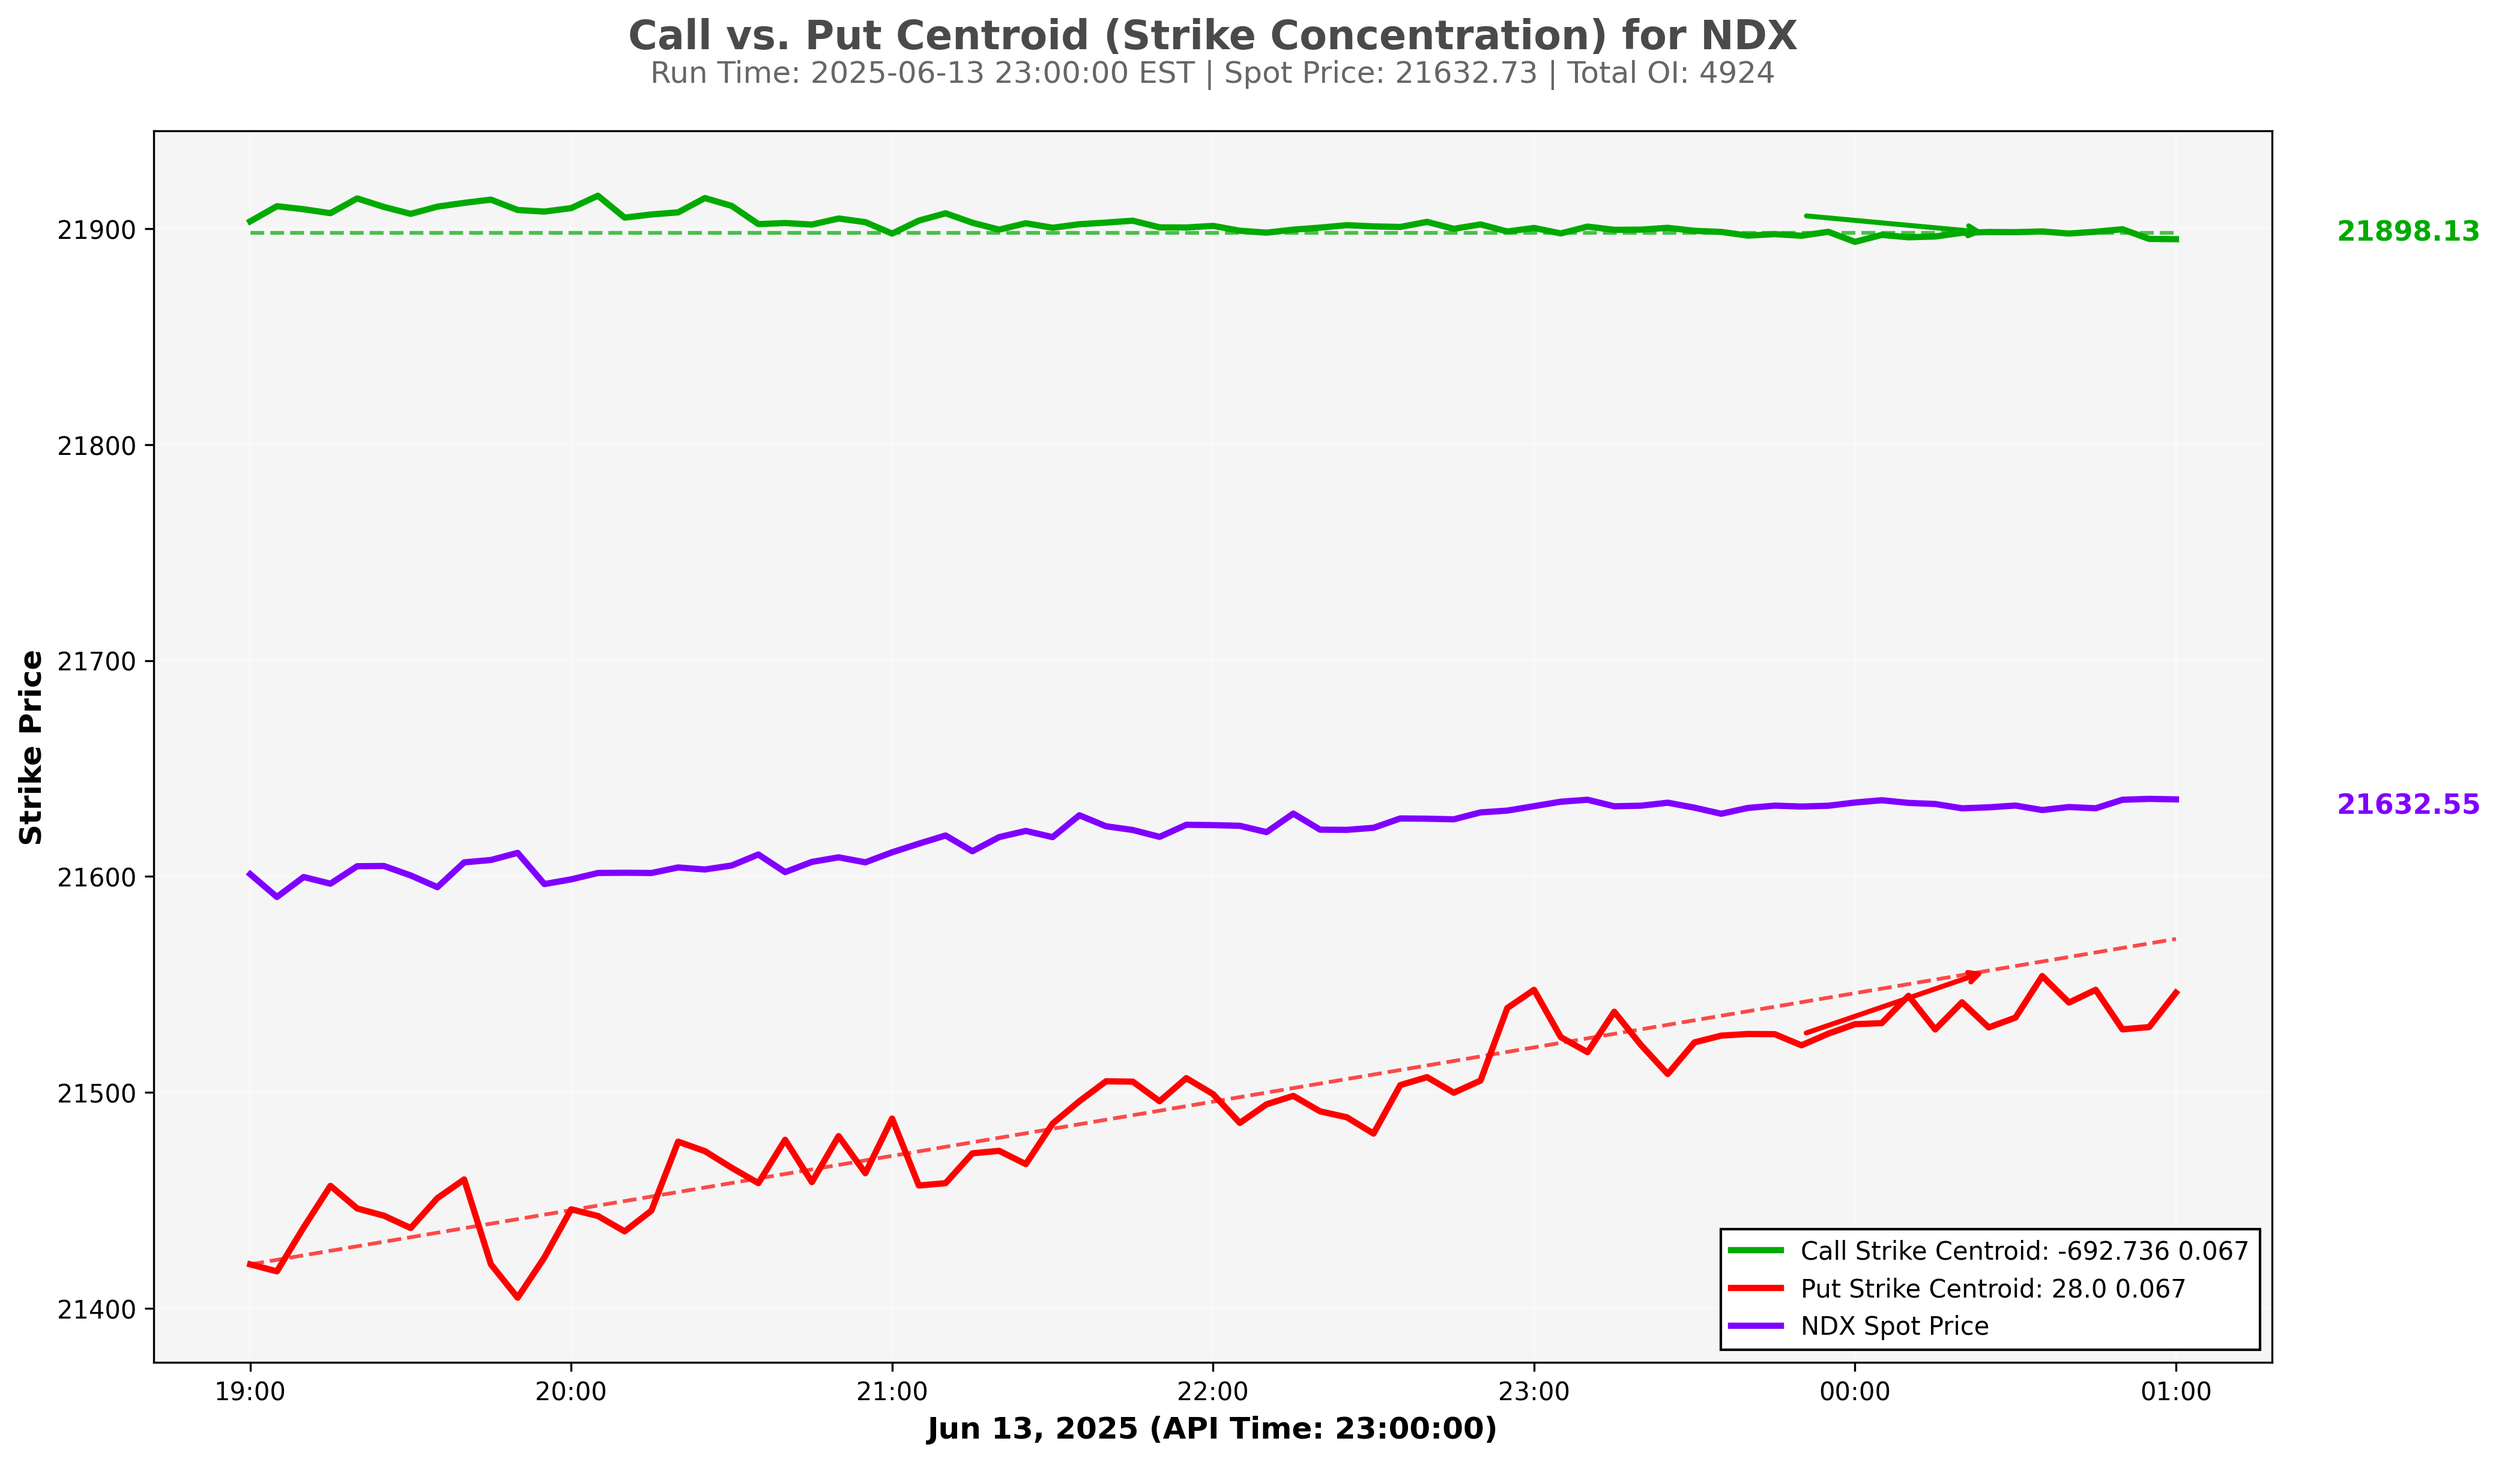
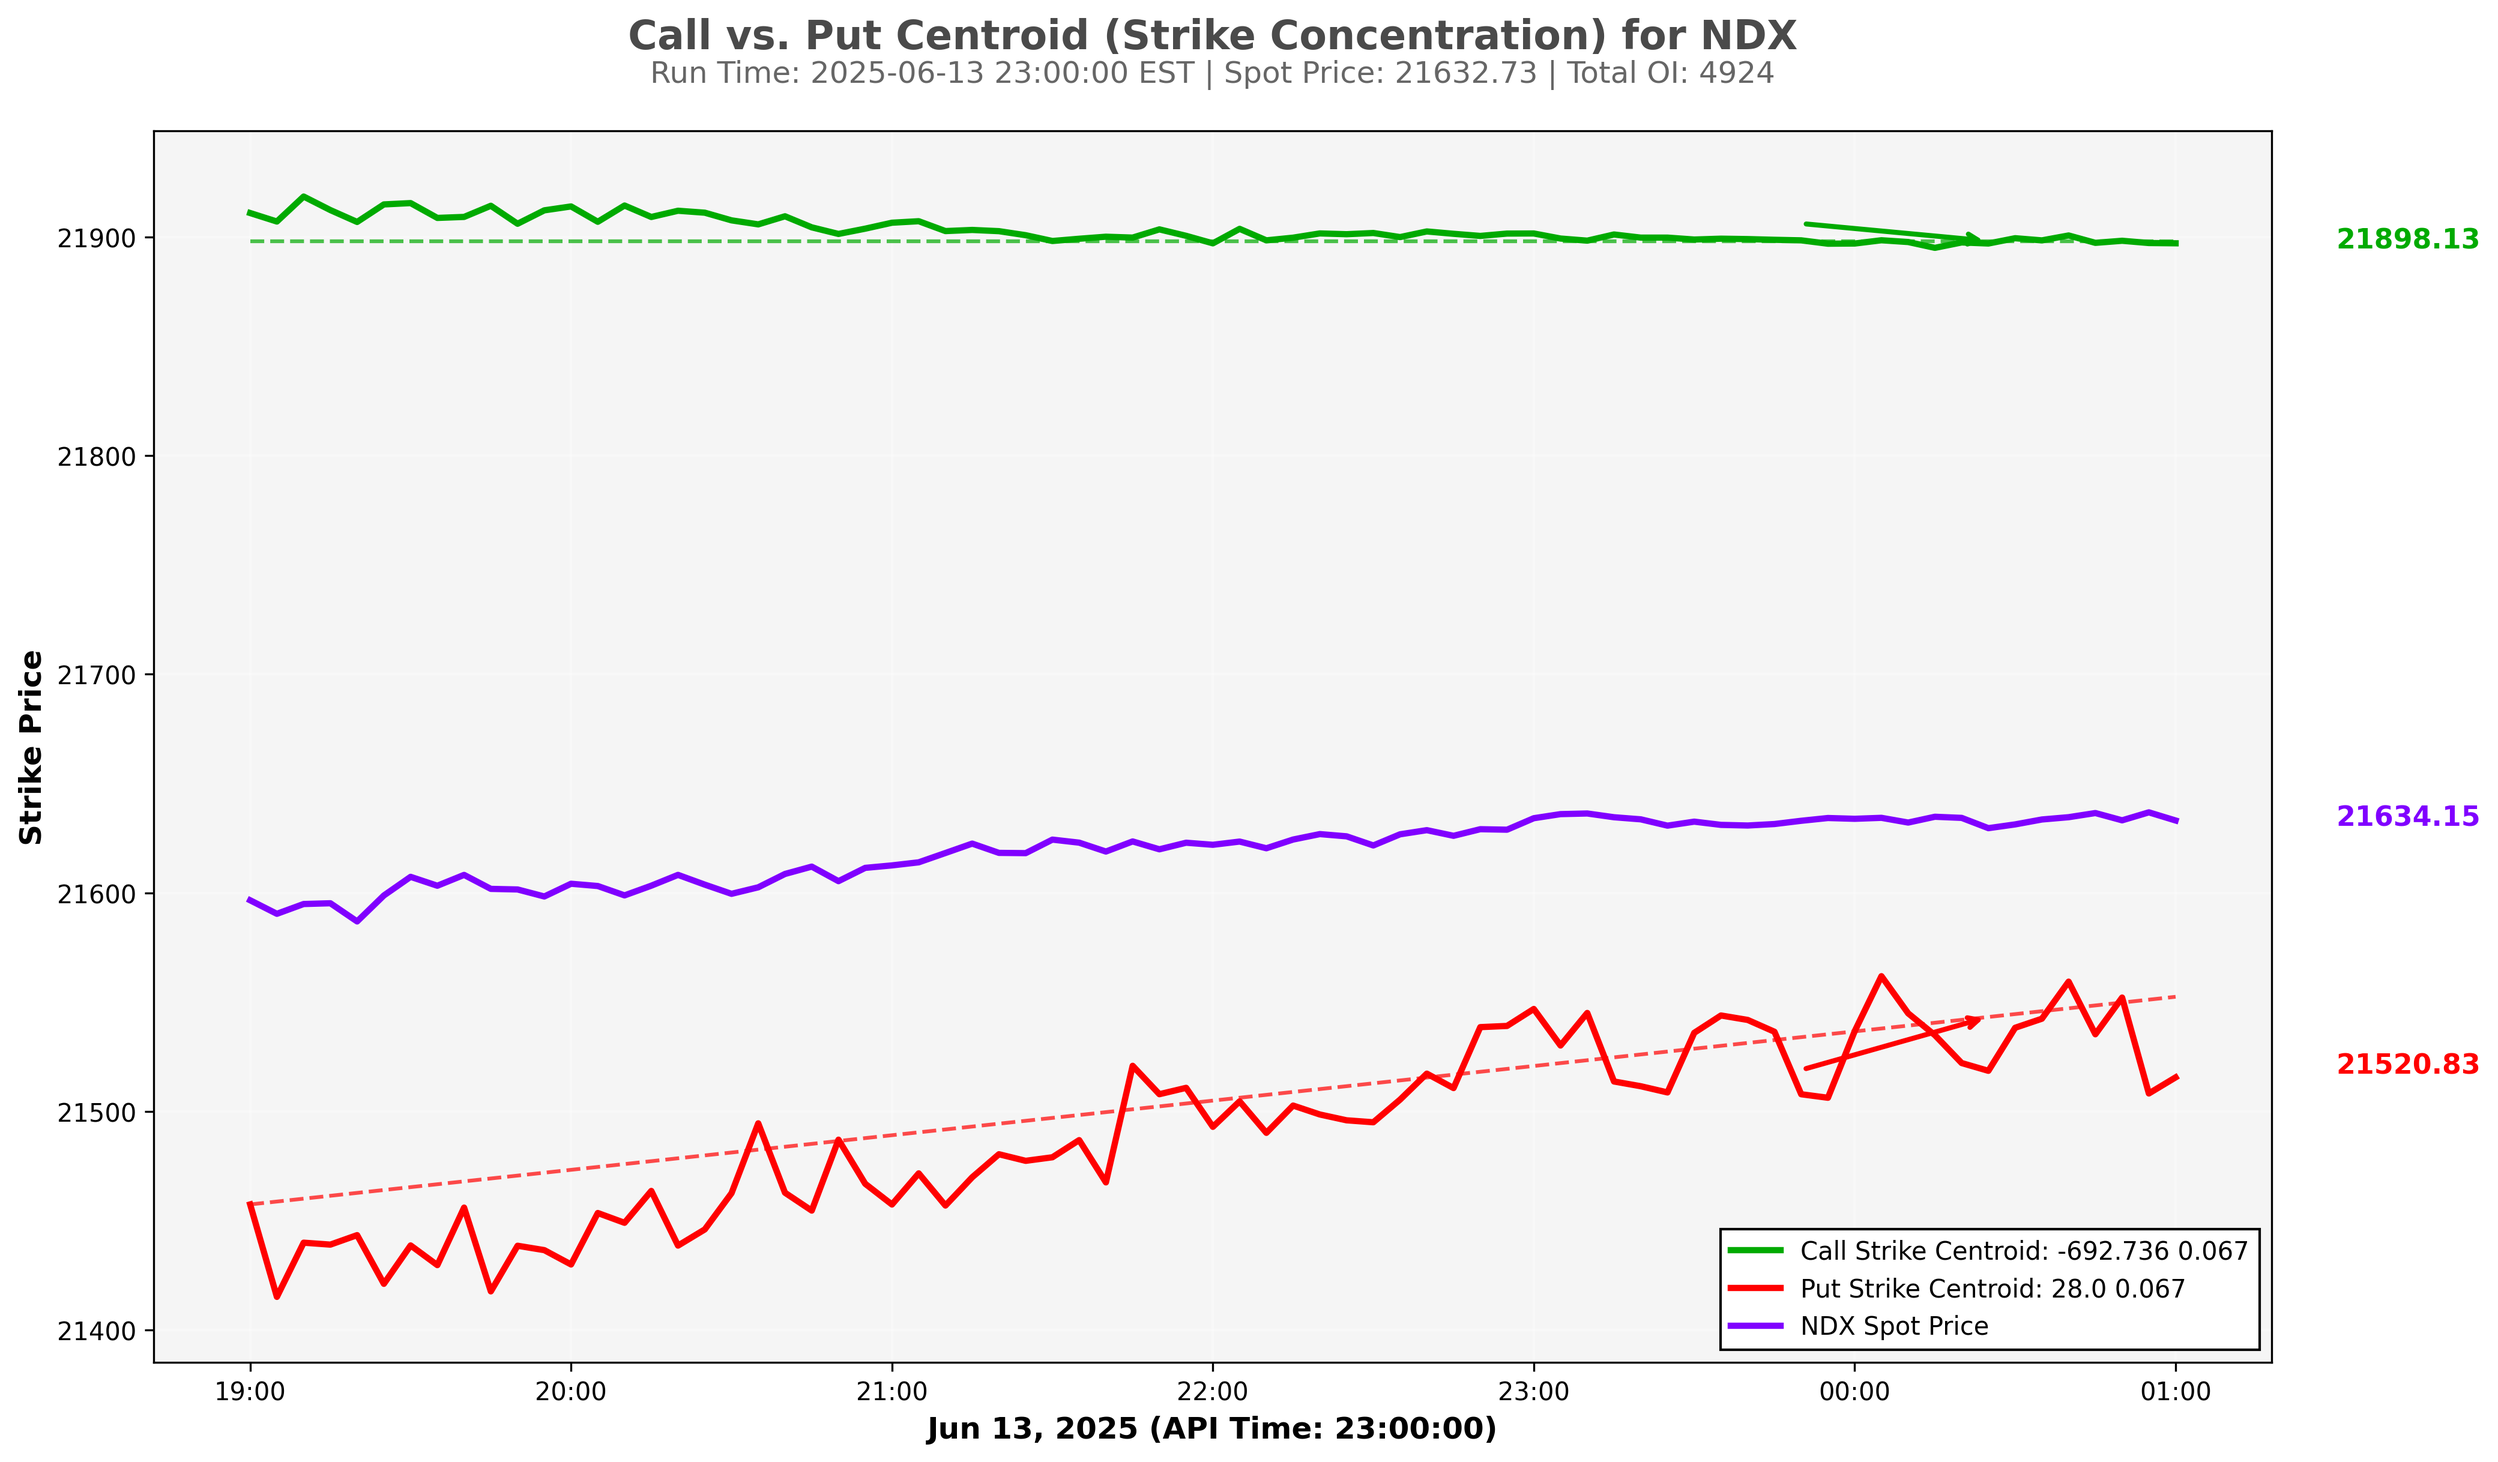
new updates

diff --git a/charts/spx.py b/charts/spx.py
@@ -243,13 +243,14 @@ def create_dynamic_plot(df, api_data_analysis, api_index):
     # Add dynamic value labels
     final_call = api_data_analysis['call_centroid']
     final_spot = df['spot'].iloc[api_index] if api_index < len(df) else api_data_analysis['spot_price']
+    final_red_dashed = red_dashed[-1]
 
     ax.text(df['time'].iloc[-1] + timedelta(minutes=30), final_call, f'{final_call:.2f}',
             verticalalignment='center', color='#00AA00', fontweight='bold', fontsize=11)
     ax.text(df['time'].iloc[-1] + timedelta(minutes=30), final_spot, f'{final_spot:.2f}',
             verticalalignment='center', color='#8000FF', fontweight='bold', fontsize=11)
-
-
+    ax.text(df['time'].iloc[-1] + timedelta(minutes=30), final_red_dashed, f'{final_red_dashed:.2f}',
+            verticalalignment='center', color='#FF0000', fontweight='bold', fontsize=11)
 
     # Add arrows
     arrow_props_green = dict(arrowstyle='->', color='#00AA00', lw=2)
@@ -301,8 +302,6 @@ def create_dynamic_plot(df, api_data_analysis, api_index):
     legend = ax.legend(loc='lower right', frameon=True, fancybox=False, shadow=False,
                        framealpha=1.0, edgecolor='black', fontsize=10)
     legend.get_frame().set_facecolor('white')
-
-
 
     plt.tight_layout()
     plt.subplots_adjust(top=0.88, bottom=0.12, left=0.08, right=0.92)
@@ -381,7 +380,6 @@ def main():
         saved_path = save_chart_to_static_dir(fig, api_analysis)
         print(f"\n=== CHART SAVED ===")
         print(f"Chart saved to: {saved_path}")
-
 
         plt.close(fig)
 

diff --git a/charts/ndx.py b/charts/ndx.py
@@ -248,12 +248,20 @@ def create_ndx_plot(df, api_data_analysis, api_index):
     ax.plot(df['time'], red_dashed, color='#FF0000', linestyle='--',
             linewidth=1.5, alpha=0.7)
 
-    # Add dynamic value labels
+    # Add dynamic value labels - INCLUDING RED LINE VALUE
     final_call = api_data_analysis['call_centroid']
+    final_put = api_data_analysis['put_centroid']  # Added red line value
     final_spot = df['spot'].iloc[api_index] if api_index < len(df) else api_data_analysis['spot_price']
 
+    # Green line value (call centroid)
     ax.text(df['time'].iloc[-1] + timedelta(minutes=30), final_call, f'{final_call:.2f}',
             verticalalignment='center', color='#00AA00', fontweight='bold', fontsize=11)
+
+    # Red line value (put centroid) - NEW ADDITION
+    ax.text(df['time'].iloc[-1] + timedelta(minutes=30), final_put, f'{final_put:.2f}',
+            verticalalignment='center', color='#FF0000', fontweight='bold', fontsize=11)
+
+    # Purple line value (spot price)
     ax.text(df['time'].iloc[-1] + timedelta(minutes=30), final_spot, f'{final_spot:.2f}',
             verticalalignment='center', color='#8000FF', fontweight='bold', fontsize=11)
 
